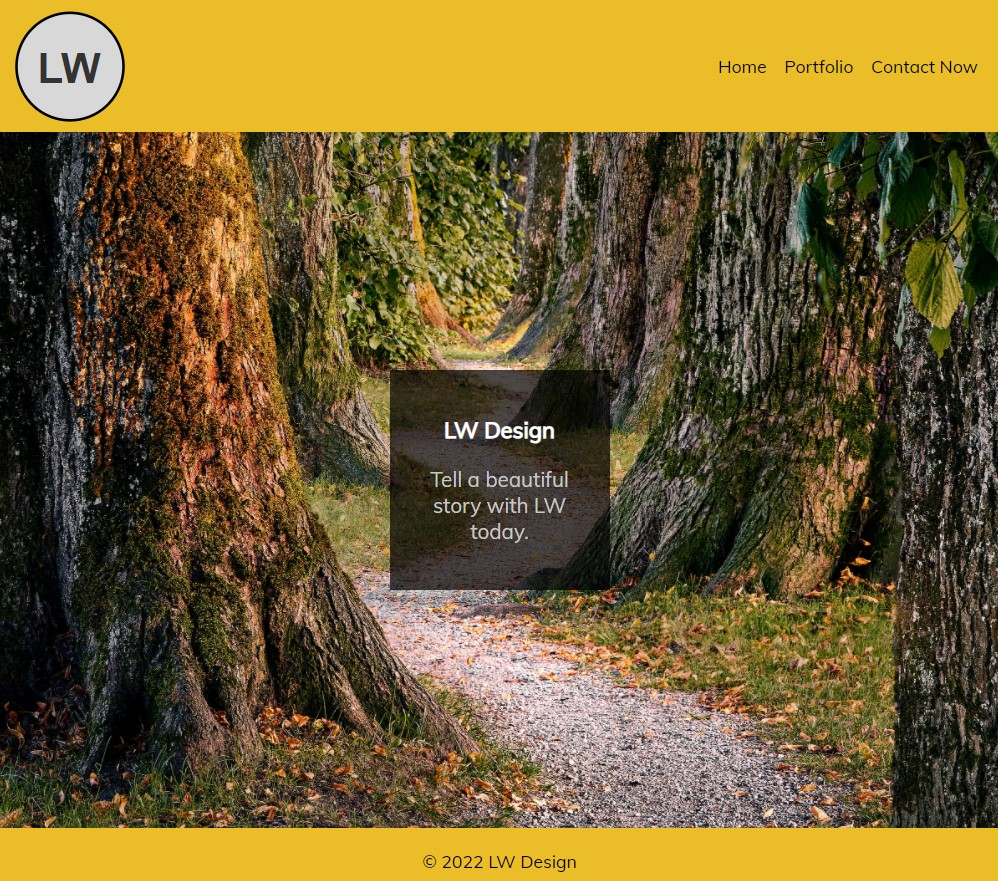
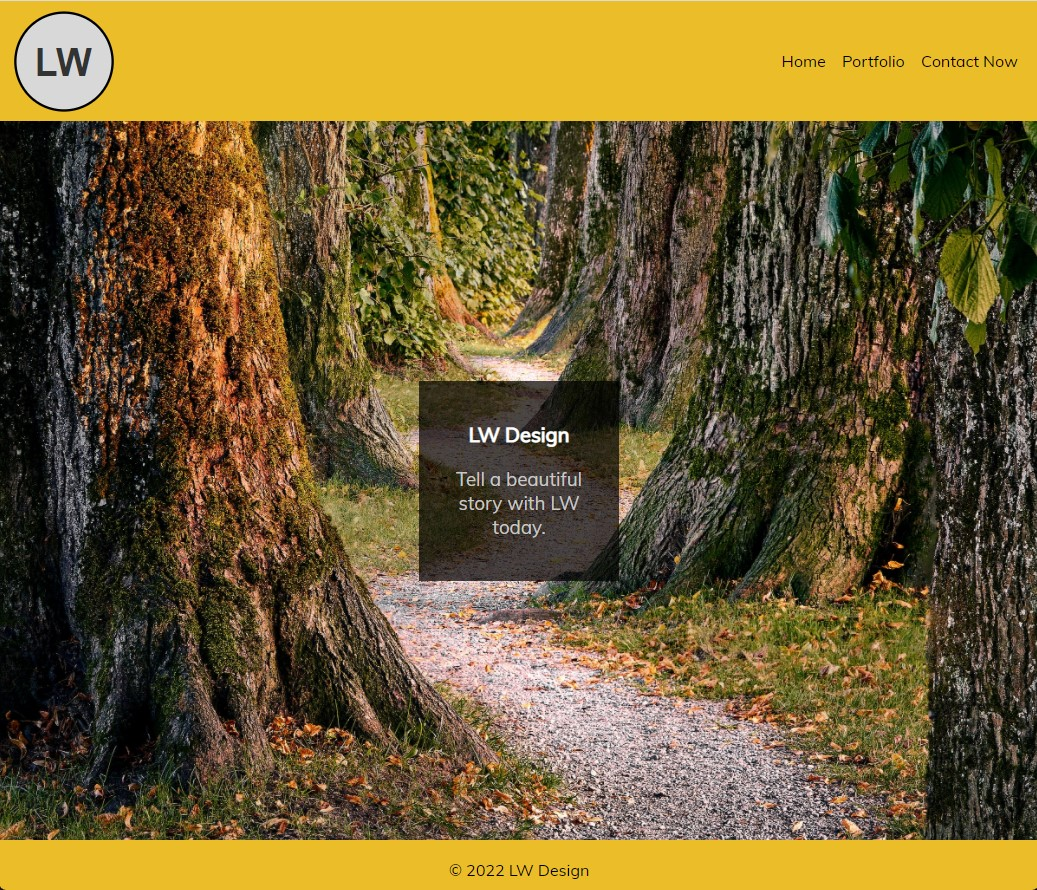
Added screenshots, Updated Readme with screenshots

diff --git a/README.md b/README.md
@@ -17,11 +17,15 @@ No installation is required. The application works on Google Chrome browsers.
 
 ## Usage
 
-To access the app, click on [CSS Snippet Cheatsheet](https://leoelicos.github.io/bcs-01-landing-page/) on GitHub Pages.
+To access the app, click on [Landing Page](https://leoelicos.github.io/bcs-01-landing-page/) on GitHub Pages.
 
 Screenshot:
 
-![Images](./assets/images/screenshot-css-snippet-cheatsheet.jpg)
+Landing Page
+![Images](./assets/images/landing-page.jpg)
+
+Popup Modal
+![Images](./assets/images/landing-page-popup-modal.jpg)
 
 ## Credits
 
